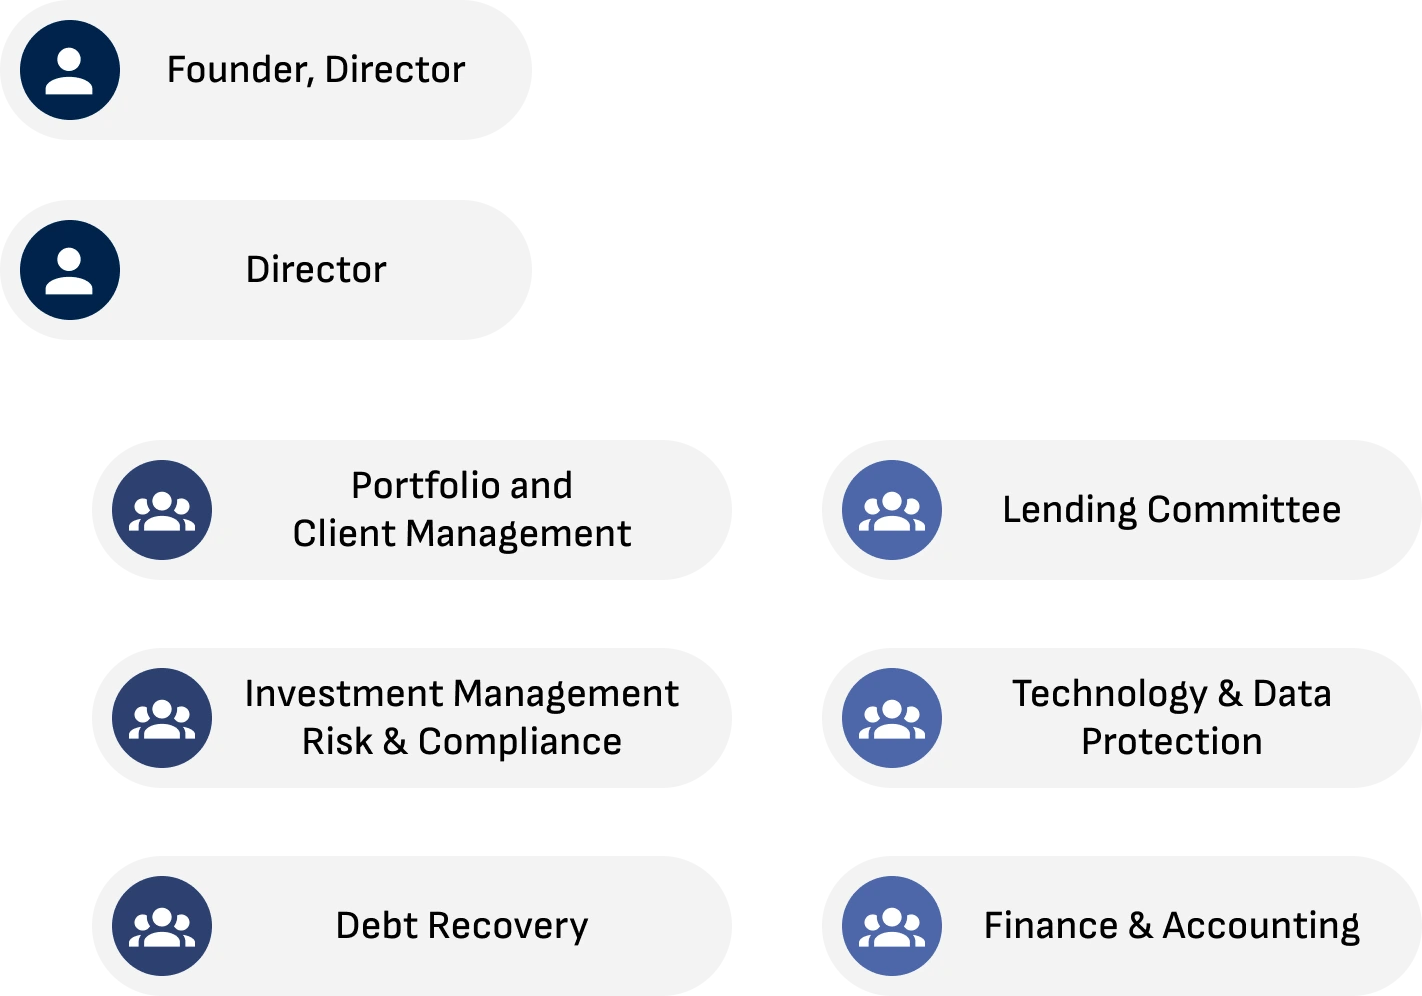
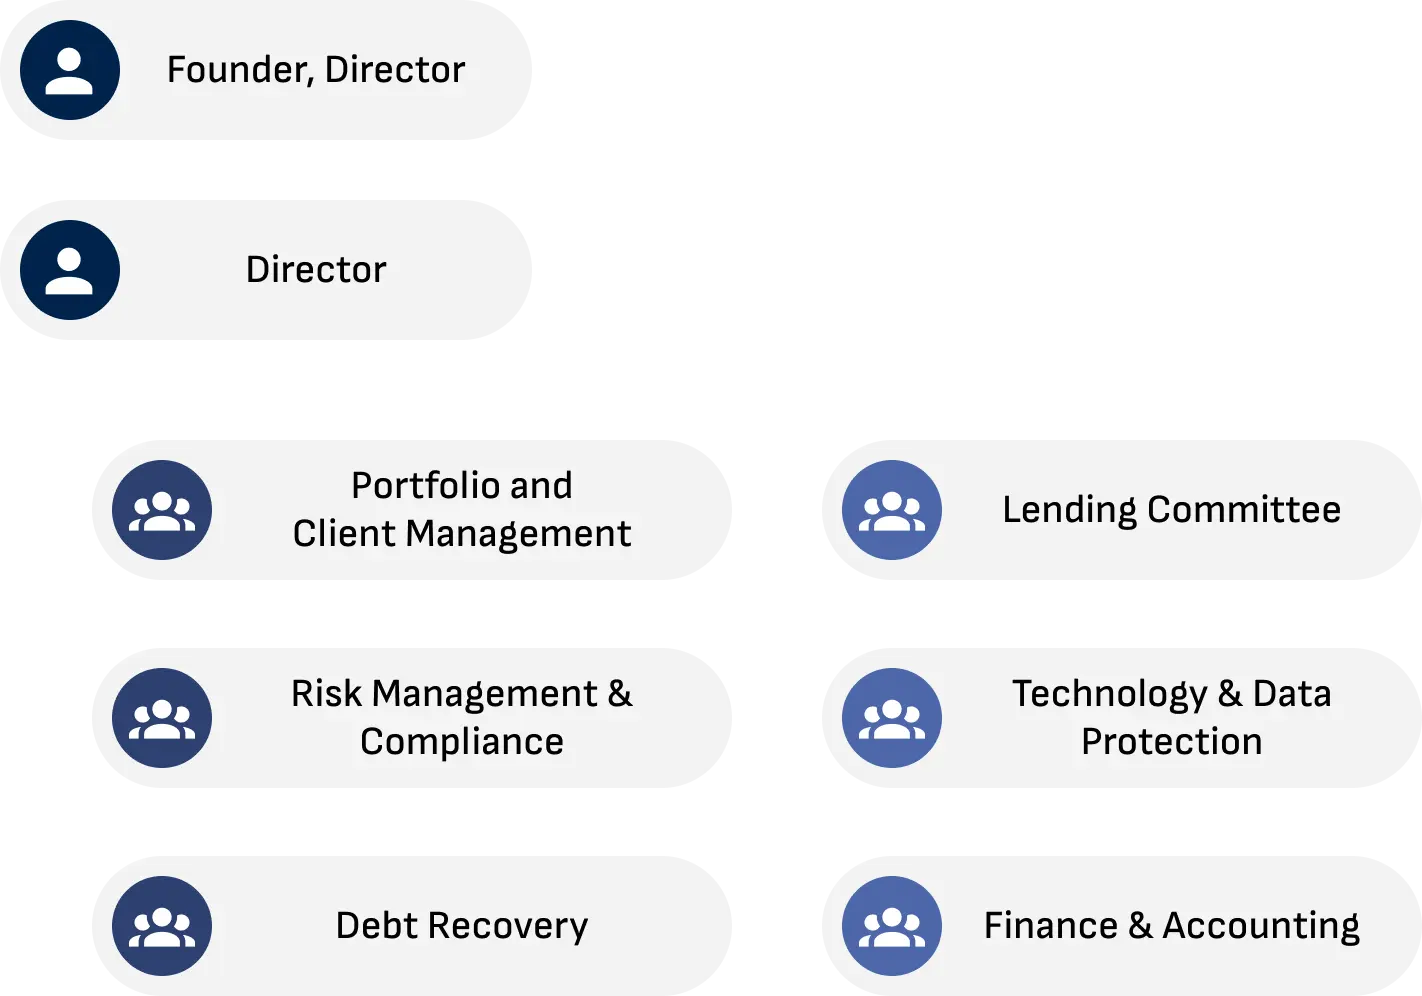
update

Changed region(s): [[0.1547, 0.6847, 0.4951, 0.7781]]

diff --git a/index.html b/index.html
@@ -77,7 +77,8 @@
                     <h1 class="fade-in-bottom">Alevate <span data-aos-delay="100" data-aos="fade-up"
                             class="blue">Capital</span></h1>
                     <p>Made Funding Convenience for Businesses <br>
-                        Licensed by KPKT, KPKT License No:
+                        Licensed by Kementerian Pembangunan Kerajaan Tempatan (KPKT)
+                        KPKT License No:
                         <strong>W7604/10/01</strong>
                     </p>
                     <br>
@@ -454,7 +455,7 @@
                         </div>
                         <div class="team_label row">
                             <img src="assets/persons.png" alt="" loading="lazy">
-                            <span>Investment Management <br> Risk & Compliance</span>
+                            <span>Risk Management & Compliance</span>
                         </div>
                         <div class="team_label row">
                             <img src="assets/persons.png" alt="" loading="lazy">
